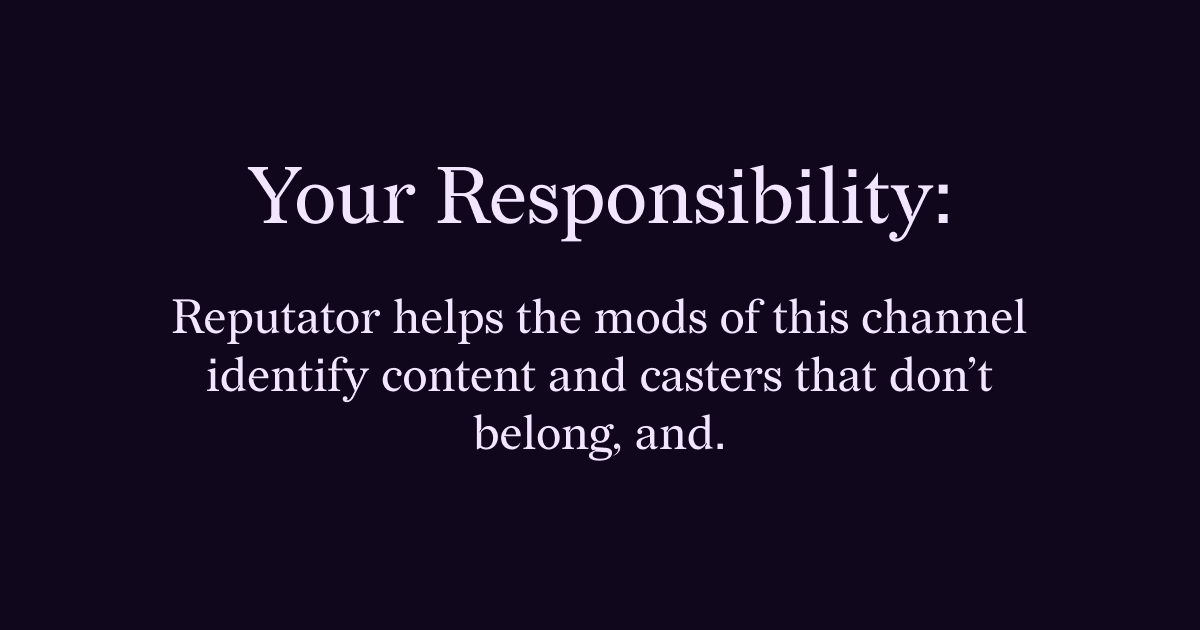
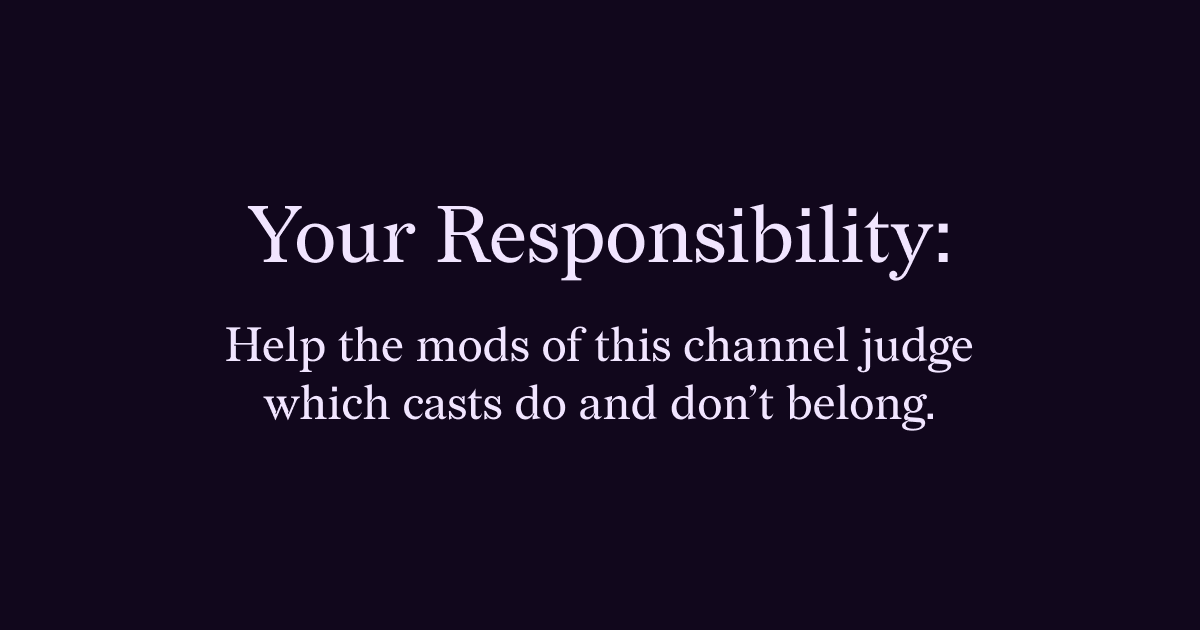
feat: improved tutorial

Changed region(s): [[0.1233, 0.4825, 0.8633, 0.7238], [0.37, 0.2413, 0.8017, 0.4524], [0.2158, 0.2413, 0.3392, 0.4222]]

diff --git a/src/frames/tutorial4.ts b/src/frames/tutorial4.ts
@@ -2,14 +2,14 @@ import { FrameActionDataParsed } from 'frames.js';
 const html = String.raw;
 
 export default {
-  name: 'tutorial4',
+  name: 'tutorial5',
   logic: async (frameMessage: FrameActionDataParsed) => {
     switch (frameMessage.buttonIndex) {
       case 1:
         return `tutorial3`;
-      case 2: // re-roll      
-        return `tutorial5`;
-      case 3: // bad
+      case 2: // no    
+        return `tutorialfeedback`;
+      case 3: // yes
         return `judge`;
     }
   },
@@ -20,10 +20,10 @@ export default {
         ⬅ Back
       </frame-button>
       <frame-button>
-        ➡ Next
+        No
       </frame-button>
       <frame-button>
-        ⤵ Skip
+        Yes
       </frame-button>
     `;
   },

diff --git a/src/frames/index.ts b/src/frames/index.ts
@@ -9,7 +9,6 @@ import tutorial1 from "./tutorial1.js";
 import tutorial2 from "./tutorial2.js";
 import tutorial3 from "./tutorial3.js";
 import tutorial4 from "./tutorial4.js";
-import tutorial5 from "./tutorial5.js";
 import tutorialfeedback from "./tutorialfeedback.js";
 
 export default {
@@ -24,6 +23,5 @@ export default {
   tutorial2,
   tutorial3,
   tutorial4,
-  tutorial5,
   tutorialfeedback
 }
